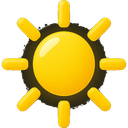
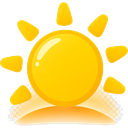
Restore CSS task ✓, sun today nav, brighter pastels, today list modes
- Task complete uses green circle + ✓ again (not Duo check.png)
- Capture→today uses sun icon; nav/brand today.png is sunrise
- 10 brighter soft pastels (粉系); SW cache bobo-pos-shell-v8
- Today list mode: 全部 / 未做先 / 藏完成 (localStorage)

diff --git a/index.html b/index.html
@@ -476,10 +476,8 @@ select {
 .theme-toggle img, .mute-toggle img { width: 28px; height: 28px; }
 .streak-pill .fire { display:inline-flex; align-items:center; }
 .streak-pill .fire img { width: 18px; height: 18px; }
-.check { display:flex; align-items:center; justify-content:center; padding:0; overflow:hidden; }
-.check img { width: 18px; height: 18px; }
-.task.done .check { background: transparent; border-color: transparent; }
-.task.done .check img { width: 28px; height: 28px; }
+.check { display:flex; align-items:center; justify-content:center; padding:0; }
+/* task complete = CSS circle + ✓ (not Duo check.png) */
 .icon-btn img { width: 22px; height: 22px; }
 .cal-nav .icon-btn img { width: 24px; height: 24px; }
 .btn .ui-ico { margin-right: 4px; }
@@ -489,6 +487,23 @@ select {
 .ms-icon img { width: 36px; height: 36px; }
 .celeb-burst img { width: 72px; height: 72px; }
 .back-ico { width: 18px; height: 18px; margin-right: 4px; vertical-align: -3px; }
+
+/* Today task list display mode */
+.today-title-row { display:flex; align-items:center; justify-content:space-between; gap:10px; flex-wrap:wrap; margin: 4px 0 10px; }
+.today-title-row .section-title { margin:0; flex:1; min-width:120px; }
+.today-mode-seg {
+  display:inline-flex; background: var(--gray-50); border: 2px solid var(--gray-100);
+  border-radius: 999px; padding: 3px; gap: 2px; flex-shrink:0;
+}
+.today-mode-seg button {
+  border:0; background:transparent; color: var(--gray-600); font-size:12px; font-weight:800;
+  padding: 6px 10px; border-radius:999px; cursor:pointer; white-space:nowrap;
+}
+.today-mode-seg button.active {
+  background: var(--card); color: var(--gray-900); box-shadow: var(--shadow);
+}
+html.dark .today-mode-seg { background: rgba(255,255,255,.06); border-color: rgba(255,255,255,.08); }
+html.dark .today-mode-seg button.active { background: rgba(255,255,255,.12); color: #fff; }
 
 /* Soft pastel task/goal color themes (10 presets) */
 .color-swatches { display:flex; flex-wrap:wrap; gap:8px; margin-top:6px; }
@@ -572,9 +587,16 @@ select {
         <div class="lbl">仲未做（最多 5）</div>
       </div>
     </div>
-    <div class="section-title">
-      <span>今日任務卡</span>
-      <span id="todayDateLabel"></span>
+    <div class="today-title-row">
+      <div class="section-title">
+        <span>今日任務卡</span>
+        <span id="todayDateLabel"></span>
+      </div>
+      <div class="today-mode-seg" id="todayModeSeg" role="group" aria-label="今日任務顯示">
+        <button type="button" data-today-mode="all" title="全部">全部</button>
+        <button type="button" data-today-mode="open_first" title="未做優先">未做先</button>
+        <button type="button" data-today-mode="hide_done" title="隱藏已完成">藏完成</button>
+      </div>
     </div>
     <div id="todayLimitWarn" class="limit-warn" hidden>未完成已經有 5 件——做完或者刪走先至可以加新嘅。</div>
     <div id="todayTaskList"></div>
@@ -753,7 +775,7 @@ select {
   <div class="capture-inner">
     <input id="quickCapture" type="text" placeholder="速記：諗到咩就寫…" autocomplete="off" />
     <button class="btn btn-primary btn-sm btn-ico-only" id="btnCaptureInbox" type="button" title="入收件箱"><img src="./icons/ui/inbox.png" alt="" /></button>
-    <button class="btn btn-secondary btn-sm btn-ico-only" id="btnCaptureToday" type="button" title="變今日任務"><img src="./icons/ui/check.png" alt="" /></button>
+    <button class="btn btn-secondary btn-sm btn-ico-only" id="btnCaptureToday" type="button" title="變今日任務"><img src="./icons/ui/sun.png" alt="" /></button>
   </div>
 </div>
 
@@ -783,19 +805,53 @@ select {
   const SUPABASE_ANON_KEY = 'eyJhbGciOiJIUzI1NiIsInR5cCI6IkpXVCJ9.eyJpc3MiOiJzdXBhYmFzZSIsInJlZiI6ImF2ZnBvYWlwcWtxeHp1YXFqdXR2Iiwicm9sZSI6ImFub24iLCJpYXQiOjE3OTIwNDMzNDIsImV4cCI6MjEwNzYxOTM0Mn0.zPmiuQPPA61QLdbJzkAAnUIkCEtKlFhdlEPiomVuJDY';
   const TZ = 'Asia/Hong_Kong';
   const MAX_TODAY = 5;
+  const TODAY_MODE_KEY = 'bobo-pos-today-mode';
+  const TODAY_MODES = ['all', 'open_first', 'hide_done'];
+  function getTodayMode() {
+    const v = localStorage.getItem(TODAY_MODE_KEY) || 'all';
+    return TODAY_MODES.includes(v) ? v : 'all';
+  }
+  function setTodayMode(mode) {
+    if (!TODAY_MODES.includes(mode)) return;
+    localStorage.setItem(TODAY_MODE_KEY, mode);
+  }
+  function syncTodayModeSeg() {
+    const mode = getTodayMode();
+    const seg = document.getElementById('todayModeSeg');
+    if (!seg) return;
+    seg.querySelectorAll('[data-today-mode]').forEach(btn => {
+      btn.classList.toggle('active', btn.getAttribute('data-today-mode') === mode);
+    });
+  }
+  function applyTodayMode(tasks) {
+    const mode = getTodayMode();
+    let list = tasks.slice();
+    if (mode === 'hide_done') {
+      list = list.filter(t => t.status !== 'done');
+    } else if (mode === 'open_first') {
+      list.sort((a, b) => {
+        const ao = a.status === 'open' ? 0 : 1;
+        const bo = b.status === 'open' ? 0 : 1;
+        if (ao !== bo) return ao - bo;
+        return 0;
+      });
+    }
+    return list;
+  }
 
-  /* Soft pastel theme colors (exactly 10) — muted for dark #131f24 */
+
+  /* Soft pastel theme colors (exactly 10) — brighter 粉系 for dark #131f24 */
   const COLOR_PALETTE = [
-    { id: 'rose',     label: '塵玫瑰', accent: '#C9A4A8', soft: 'rgba(201,164,168,.22)' },
-    { id: 'sage',     label: '鼠尾草', accent: '#A8B89A', soft: 'rgba(168,184,154,.22)' },
-    { id: 'mist',     label: '霧藍',   accent: '#9BB0C4', soft: 'rgba(155,176,196,.22)' },
-    { id: 'lavender', label: '灰薰衣草', accent: '#B0A8BE', soft: 'rgba(176,168,190,.22)' },
-    { id: 'sand',     label: '暖沙',   accent: '#C4B59A', soft: 'rgba(196,181,154,.22)' },
-    { id: 'teal',     label: '霧青',   accent: '#8FB0A8', soft: 'rgba(143,176,168,.22)' },
-    { id: 'peach',    label: '柔桃',   accent: '#D4B0A0', soft: 'rgba(212,176,160,.22)' },
-    { id: 'lilac',    label: '石板紫', accent: '#A8A0B8', soft: 'rgba(168,160,184,.22)' },
-    { id: 'mint',     label: '淡薄荷', accent: '#A0C4B0', soft: 'rgba(160,196,176,.22)' },
-    { id: 'apricot',  label: '柔杏',   accent: '#D4B898', soft: 'rgba(212,184,152,.22)' }
+    { id: 'rose',     label: '粉紅',   accent: '#FF8FB5', soft: 'rgba(255,143,181,.30)' },
+    { id: 'peach',    label: '蜜桃',   accent: '#FF9A7A', soft: 'rgba(255,154,122,.30)' },
+    { id: 'apricot',  label: '杏橙',   accent: '#FFB85C', soft: 'rgba(255,184,92,.30)' },
+    { id: 'sand',     label: '奶油黃', accent: '#FFE56A', soft: 'rgba(255,229,106,.28)' },
+    { id: 'mint',     label: '薄荷绿', accent: '#6FDBA8', soft: 'rgba(111,219,168,.30)' },
+    { id: 'mist',     label: '天藍',   accent: '#6EBEFF', soft: 'rgba(110,190,255,.30)' },
+    { id: 'lavender', label: '薰衣草', accent: '#B99AFF', soft: 'rgba(185,154,255,.30)' },
+    { id: 'lilac',    label: '紫丁香', accent: '#E892DC', soft: 'rgba(232,146,220,.30)' },
+    { id: 'teal',     label: '水藍',   accent: '#5CD9D0', soft: 'rgba(92,217,208,.30)' },
+    { id: 'sage',     label: '玫瑰粉', accent: '#FF6B9D', soft: 'rgba(255,107,157,.30)' }
   ];
   const COLOR_BY_ID = Object.fromEntries(COLOR_PALETTE.map(c => [c.id, c]));
   const KIND_DEFAULT_COLOR = { academy: 'mist', ai_terms: 'lilac', daily_review: 'sage' };
@@ -1302,17 +1358,21 @@ select {
     document.getElementById('todayLimitWarn').hidden = open < MAX_TODAY;
     document.getElementById('btnAddTask').disabled = open >= MAX_TODAY;
 
+    syncTodayModeSeg();
+    const shown = applyTodayMode(tasks);
     const list = document.getElementById('todayTaskList');
     if (!tasks.length) {
       list.innerHTML = '<div class="empty"><img class="empty-ico" src="./icons/ui/sun.png" alt="" /><h3>今日未有任務</h3><p>預設任務會自動出現；你亦可以自己加。</p></div>';
+    } else if (!shown.length) {
+      list.innerHTML = '<div class="empty"><img class="empty-ico" src="./icons/ui/sun.png" alt="" /><h3>已完成都收埋咗</h3><p>切去「全部」或者「未做先」可以再睇。</p></div>';
     } else {
-      list.innerHTML = tasks.map(t => {
+      list.innerHTML = shown.map(t => {
         const isDone = t.status === 'done';
         const colorId = resolveTaskColor(t);
         const tint = colorId ? ' theme-tint' : '';
         const goto = t.action_page && t.action_page !== 'none'
           ? `<button type="button" class="task-goto" data-goto="${esc(t.action_page)}">去頁面 →</button>` : '';
-        const checkInner = isDone ? '<img src="./icons/ui/check.png" alt="" />' : '';
+        const checkInner = isDone ? '✓' : '';
         return `<div class="task ${isDone ? 'done' : ''}${tint}" data-task="${t.id}" ${themeStyle(colorId)}>
           <button type="button" class="check" data-toggle="${t.id}" aria-label="完成">${checkInner}</button>
           <div class="task-body" data-detail="${t.id}">
@@ -1342,7 +1402,7 @@ select {
     box.innerHTML = state.captures.map(c => `
       <div class="inbox-item" data-cap="${c.id}">
         <p>${esc(c.body)}</p>
-        <button type="button" class="icon-btn" data-cap-today="${c.id}" title="變今日任務"><img src="./icons/ui/check.png" alt="" /></button>
+        <button type="button" class="icon-btn" data-cap-today="${c.id}" title="變今日任務"><img src="./icons/ui/sun.png" alt="" /></button>
         <button type="button" class="icon-btn" data-cap-dismiss="${c.id}" title="刪除"><img src="./icons/ui/trash.png" alt="" /></button>
       </div>`).join('');
   }
@@ -2075,6 +2135,18 @@ select {
     document.getElementById('btnAddGoal').onclick = () => { sfxClick(); openAddGoalModal(); };
     document.getElementById('btnCaptureInbox').onclick = () => addCapture(false);
     document.getElementById('btnCaptureToday').onclick = () => addCapture(true);
+    const todayModeSeg = document.getElementById('todayModeSeg');
+    if (todayModeSeg && !todayModeSeg.dataset.bound) {
+      todayModeSeg.dataset.bound = '1';
+      todayModeSeg.addEventListener('click', (e) => {
+        const btn = e.target.closest('[data-today-mode]');
+        if (!btn) return;
+        setTodayMode(btn.getAttribute('data-today-mode'));
+        syncTodayModeSeg();
+        renderToday();
+      });
+    }
+    syncTodayModeSeg();
     document.getElementById('quickCapture').addEventListener('keydown', (e) => {
       if (e.key === 'Enter') { e.preventDefault(); addCapture(false); }
     });

diff --git a/sw.js b/sw.js
@@ -1,5 +1,5 @@
 /* BoBo Personal OS — minimal offline shell SW */
-const CACHE = 'bobo-pos-shell-v7';
+const CACHE = 'bobo-pos-shell-v8';
 const PRECACHE = [
   './',
   './index.html',
